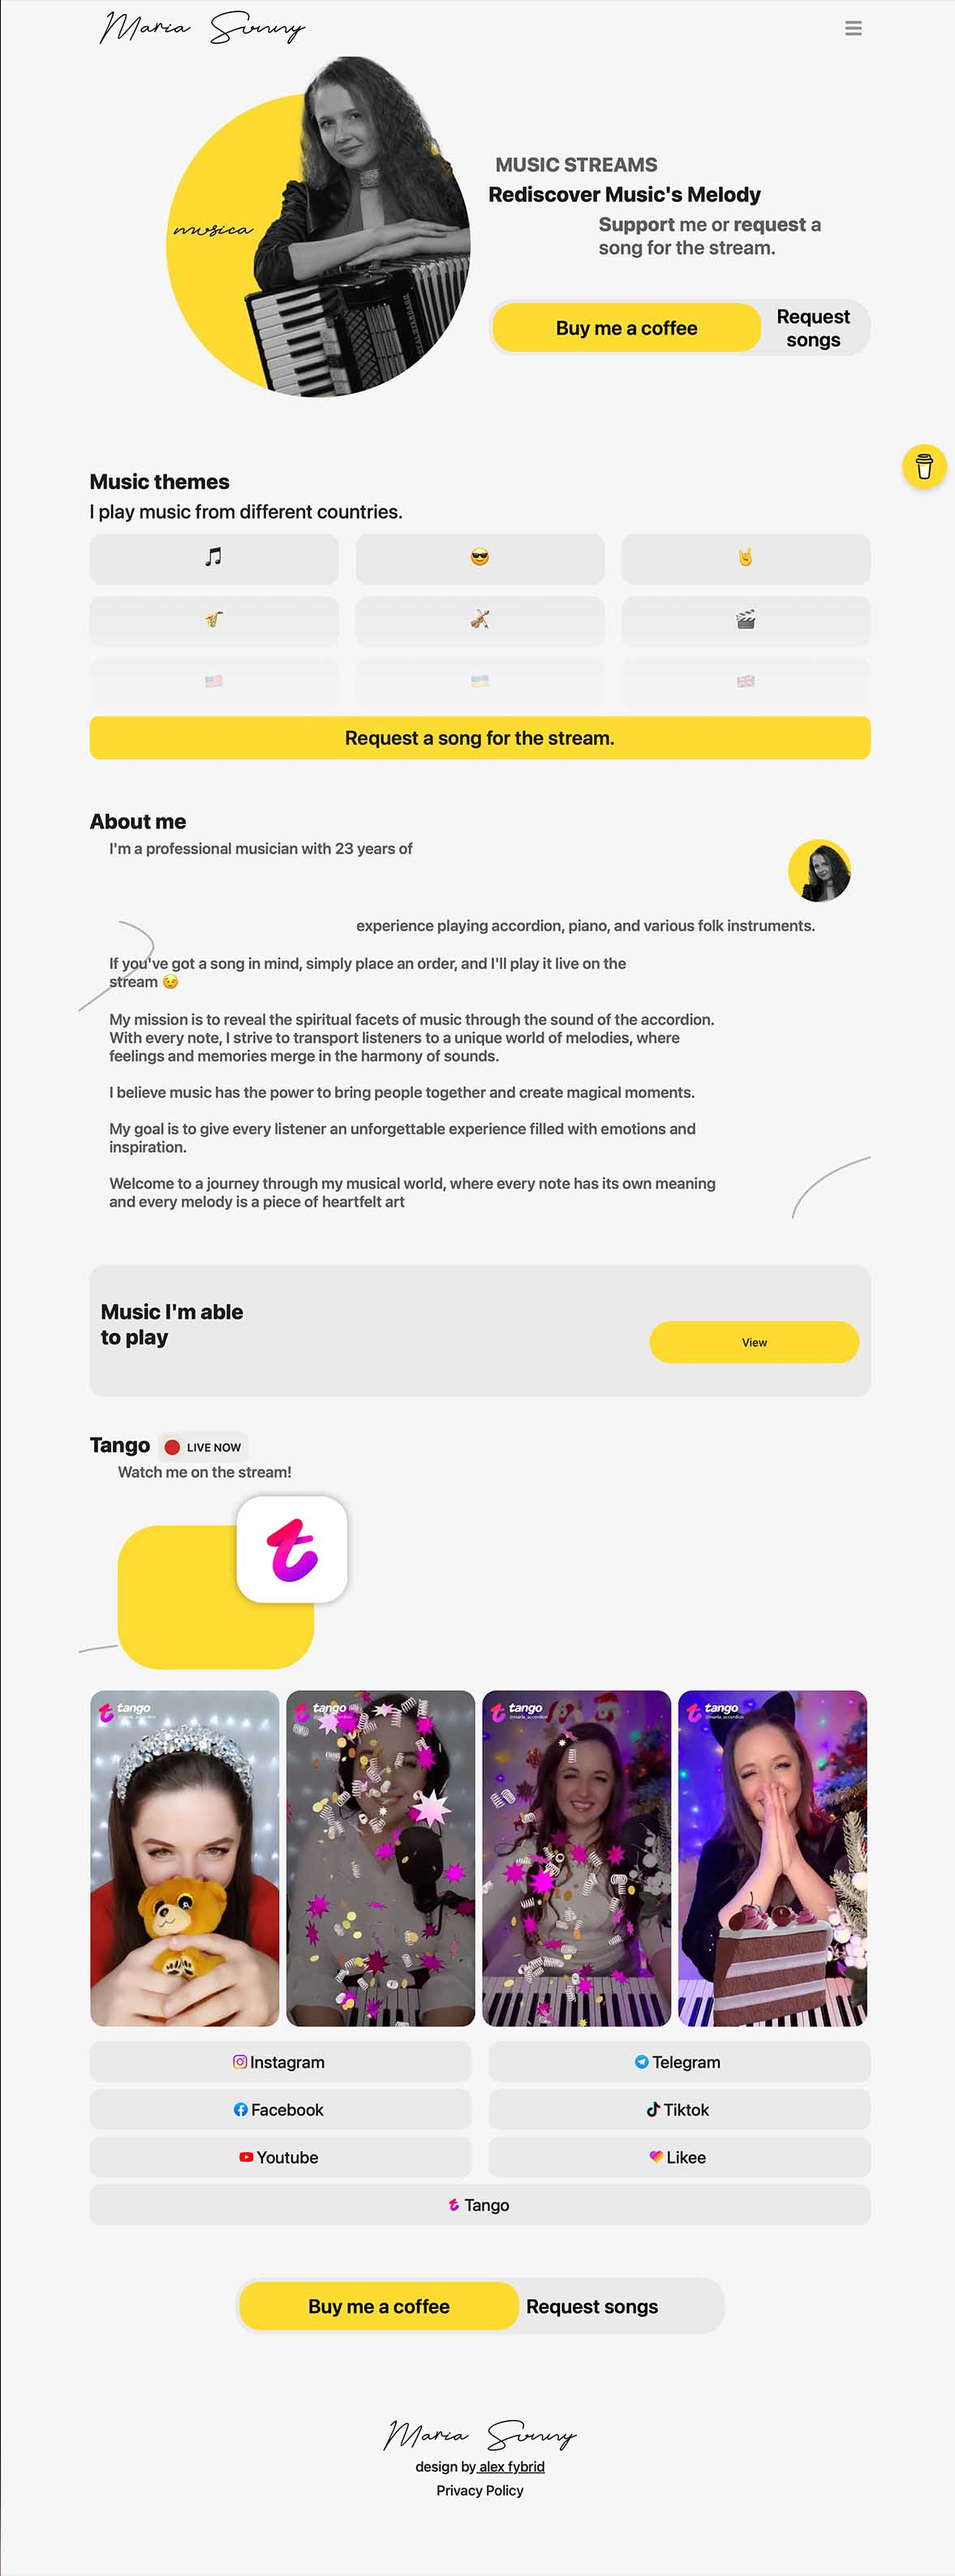
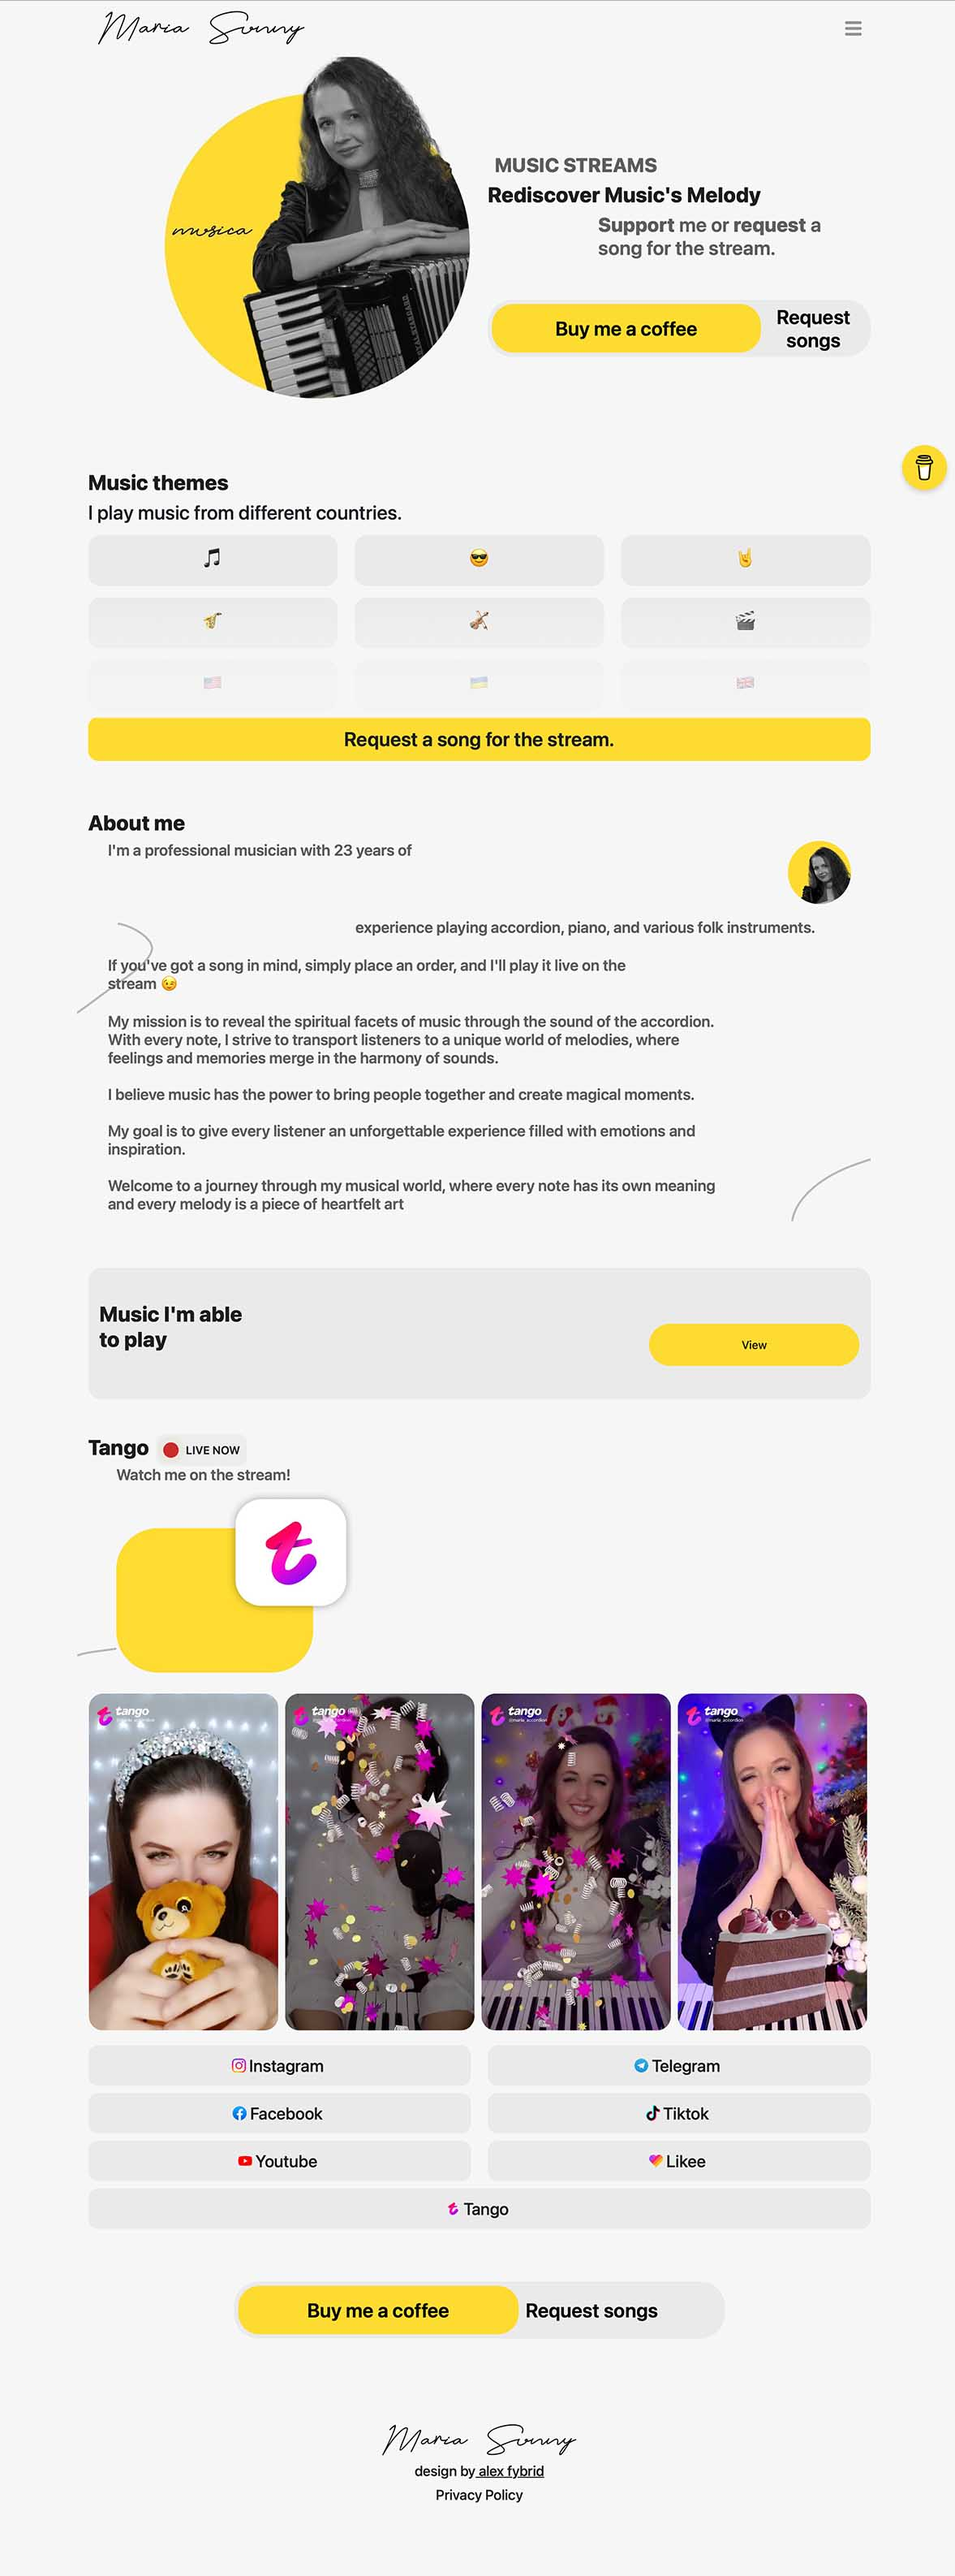
1

diff --git a/index16.html b/index16.html
@@ -328,7 +328,7 @@
               </div>
               <div class="col-4 color_bl_2 bl_style"
                 style="background-color: #ebebeb; border-top: var(--bs-border-width) var(--bs-border-style) var(--bs-border-color);color: black;">
-                <h3>#ebebeb</h3>
+                <h3 style="color: black;">#ebebeb</h3>
               </div>
               <div class="col-4 color_bl_3 bl_style"
               style="background-color: #ffe800; border-top: var(--bs-border-width) var(--bs-border-style) var(--bs-border-color);">
@@ -358,8 +358,8 @@
                     <!-- <div class="col-5 color_site color_bl_4" style="background-color: #ff1252;">
                       <h3>#ff1252</h3>
                     </div> -->
-                    <div class="col-5 color_site color_bl_5" style="background-color: #ebebeb; color: black;">
-                      <h3>#ebebeb</h3>
+                    <div class="col-5 color_site color_bl_5" style="background-color: #ebebeb;">
+                      <h3 style="color: black;">#ebebeb</h3>
                     </div>
                   </div>
                 </div>
